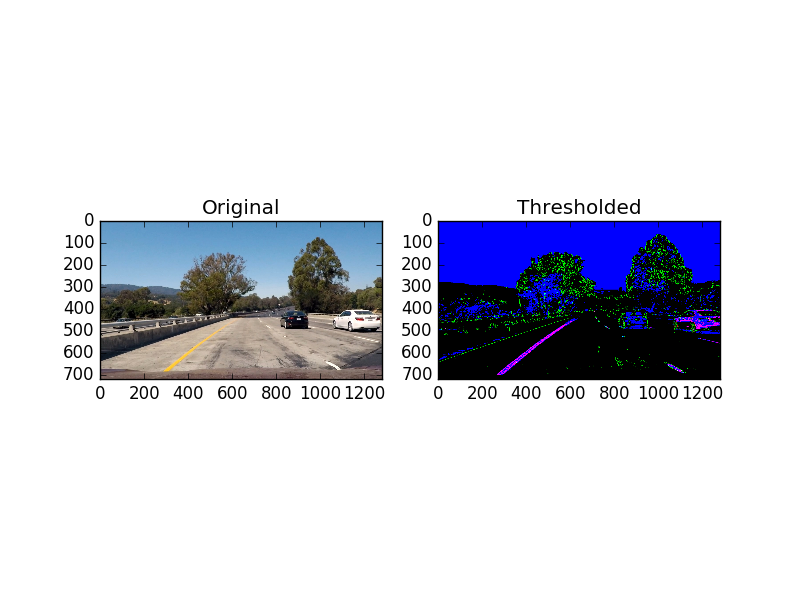
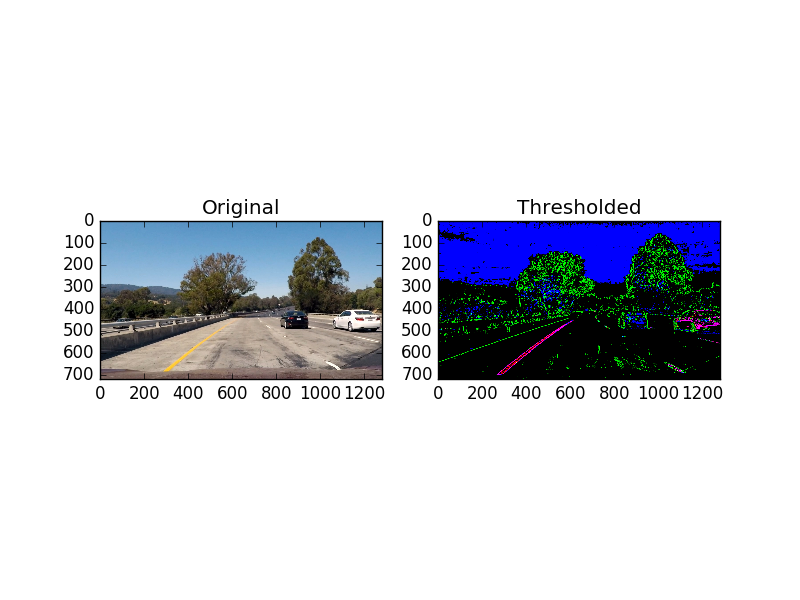
ready for writeup

diff --git a/advanced_lane_finding.py b/advanced_lane_finding.py
@@ -11,30 +11,87 @@ from moviepy.editor import VideoFileClip
 import time
 
 class Line():
+    # 0th index will correspond to the left line
+    # 1st index will correspond to the right line
     def __init__(self):
+        ym_per_pix = 30/720 # meters per pixel in y dimension
+        xm_per_pix = 3.7/700 # meters per pixel in x dimension
         # was the line detected in the last iteration?
         self.detected = False  
         # x values of the last n fits of the line
         self.recent_xfitted = [] 
         #average x values of the fitted line over the last n iterations
-        self.bestx = None     
+        self.bestx = []     
         #polynomial coefficients averaged over the last n iterations
-        self.best_fit = None  
+        self.best_fit = np.array([[0,0,0],[0,0,0]], dtype='float')
         #polynomial coefficients for the most recent fit
         self.current_fit = [np.array([False])]  
         #radius of curvature of the line in some units
-        self.radius_of_curvature = None 
+        self.radii = [] 
         #distance in meters of vehicle center from the line
         self.line_base_pos = None 
         #difference in fit coefficients between last and new fits
-        self.diffs = np.array([0,0,0], dtype='float') 
+        self.diffs = np.array([[0,0,0],[0,0,0]], dtype='float') 
         #x values for detected line pixels
         self.allx = None  
         #y values for detected line pixels
         self.ally = None
         #x location of the first window center form the previous run
         self.center = []
+        # conversion of pixels to length
+        self.pixels_to_length = []
 
+    def reset(self):
+        # comments in __init__()
+        self.detected = False  
+        self.recent_xfitted = [] 
+        self.bestx = []    
+        self.best_fit = np.array([[0,0,0],[0,0,0]], dtype='float')
+        self.current_fit = [np.array([False])]  
+        self.radii = [] 
+        self.line_base_pos = None 
+        self.diffs = np.array([[0,0,0],[0,0,0]], dtype='float') 
+        self.allx = None  
+        self.ally = None
+        self.center = []
+        self.pixels_to_length = []
+
+    def width_pixels(self):
+        #lane width in pixels
+        return (self.center[1] - self.center[0])
+
+    def position(self, cols):
+        # negative values indicate bias to right line
+        # positive values indicate bias to left line
+        pos_pixel = (self.center[1]-cols/2)-(cols/2-self.center[0])
+        pos_meter = pos_pixel * 3.7 / self.width_pixels()
+        return pos_meter
+
+    def draw_lines(self, rows):
+        # draw lines using polyfit and EWMA on previous fits
+        ploty = np.linspace(0, rows-1, num=rows)
+        if self.bestx == []:
+            self.bestx = np.zeros((2,rows), dtype = np.float32)
+            self.bestx[0] = self.best_fit[0,0]*ploty**2 + self.best_fit[0,1]*ploty + self.best_fit[0,2]
+            self.bestx[1] = self.best_fit[1,0]*ploty**2 + self.best_fit[1,1]*ploty + self.best_fit[1,2]
+        else:
+            tmp = np.zeros((2,rows), dtype = np.float32)
+            tmp[0] = self.best_fit[0,0]*ploty**2 + self.best_fit[0,1]*ploty + self.best_fit[0,2]
+            tmp[1] = self.best_fit[1,0]*ploty**2 + self.best_fit[1,1]*ploty + self.best_fit[1,2]
+            self.bestx[0] = 0.2*tmp[0] + 0.8*self.bestx[0]
+            self.bestx[1] = 0.2*tmp[1] + 0.8*self.bestx[1]
+
+        self.radii = np.zeros((2,), dtype = np.float32)
+
+        ym_per_pix = 30/720
+        xm_per_pix = 3.7/700
+        y_eval = np.max(ploty)
+        left_fit_cr = np.polyfit(ploty*ym_per_pix, self.bestx[0]*xm_per_pix, 2)
+        right_fit_cr = np.polyfit(ploty*ym_per_pix, self.bestx[1]*xm_per_pix, 2)
+        # Calculate the new radii of curvature
+        self.radii[0] = ((1 + (2*left_fit_cr[0]*y_eval*ym_per_pix + left_fit_cr[1])**2)**1.5) / np.absolute(2*left_fit_cr[0])
+        self.radii[1] = ((1 + (2*right_fit_cr[0]*y_eval*ym_per_pix + right_fit_cr[1])**2)**1.5) / np.absolute(2*right_fit_cr[0])
+            
 def cal_images():
     # Images for camera calibration
     fname_array = ['camera_cal/calibration1.jpg',
@@ -175,18 +232,17 @@ def calibrate_camera(fname_array):
 
     return mtx, dist
 
-def paint_lane(src, left_polynomial, right_polynomial):
+def paint_lane(src):
     # Given an image and a polynomial best fit for each edge
     # superimpose the lane over the image
-
+    rows = src.shape[0]
     dst = np.zeros_like(src).astype(np.uint8)
-    ploty = np.linspace(0, 719, num=720)
-    left_fit = left_polynomial[0]*ploty**2 + left_polynomial[1]*ploty + left_polynomial[2]
-    right_fit = right_polynomial[0]*ploty**2 + right_polynomial[1]*ploty + right_polynomial[2]
+    LaneLines.draw_lines(rows)
+    ploty = np.linspace(0, rows-1, num=rows)
 
     # Recast the x and y points into usable format for cv2.fillPoly()
-    pts_left = np.array([np.transpose(np.vstack([left_fit, ploty]))])
-    pts_right = np.array([np.flipud(np.transpose(np.vstack([right_fit, ploty])))])
+    pts_left = np.array([np.transpose(np.vstack([LaneLines.bestx[0], ploty]))])
+    pts_right = np.array([np.flipud(np.transpose(np.vstack([LaneLines.bestx[1], ploty])))])
     pts = np.hstack((pts_left, pts_right))
 
     # Draw the lane onto the warped blank image
@@ -294,6 +350,7 @@ def find_lines(src):
     # lines in each slice
 
     src = cv2.cvtColor(src, cv2.COLOR_RGB2GRAY)
+    
 
     rows, cols = src.shape[0], src.shape[1]
 
@@ -311,22 +368,17 @@ def find_lines(src):
 
     left_indices_all = []
     right_indices_all = []
-    if LeftLine.center == []:
+    if LaneLines.center == []:
         left_center = np.argmax(hist[:slice_width]) # horizontal center of the left search rectangle
-    else:
-        window_left = LeftLine.center-np.uint32(find_lines.width/2)
-        window_right = LeftLine.center+np.uint32(find_lines.width/2)
-        left_center = window_left+np.argmax(hist[window_left:window_right])
-    LeftLine.center = np.uint32(left_center)
-
-    if RightLine.center == []:
         right_center = slice_width+np.argmax(hist[slice_width:]) # horizontal center of the right search rectangle
     else:
-        window_left = RightLine.center-np.uint32(find_lines.width/2)
-        window_right = RightLine.center+np.uint32(find_lines.width/2)
+        window_left = LaneLines.center[0]-np.uint32(find_lines.width/2)
+        window_right = LaneLines.center[0]+np.uint32(find_lines.width/2)
+        left_center = window_left+np.argmax(hist[window_left:window_right])
+        window_left = LaneLines.center[1]-np.uint32(find_lines.width/2)
+        window_right = LaneLines.center[1]+np.uint32(find_lines.width/2)
         right_center = window_left+np.argmax(hist[window_left:window_right])
-    RightLine.center = np.uint32(right_center)
-    
+    LaneLines.center = [np.uint32(left_center), np.uint32(right_center)]
     
     dst = np.dstack((src, src, src))*255
 
@@ -375,13 +427,13 @@ def find_lines(src):
     left_indices_all = np.concatenate(left_indices_all)
     right_indices_all = np.concatenate(right_indices_all)
 
-    left_poly = np.polyfit(nonzero_row[left_indices_all],nonzero_col[left_indices_all],2)
-    right_poly = np.polyfit(nonzero_row[right_indices_all],nonzero_col[right_indices_all],2)
+    LaneLines.best_fit[0] = np.polyfit(nonzero_row[left_indices_all],nonzero_col[left_indices_all],2)
+    LaneLines.best_fit[1] = np.polyfit(nonzero_row[right_indices_all],nonzero_col[right_indices_all],2)
 
     dst[nonzero_row[left_indices_all], nonzero_col[left_indices_all]] = [255, 0, 0]
     dst[nonzero_row[right_indices_all], nonzero_col[right_indices_all]] = [0, 0, 255]
 
-    return dst, left_poly, right_poly
+    return dst
 
 def composite_image(img1, img2, img3, img4):
     # show 4 images on the same plot for tuning analysis
@@ -391,6 +443,24 @@ def composite_image(img1, img2, img3, img4):
     dst[360:721,0:640] = cv2.resize(img3, (640,360))
     dst[360:721,640:1281] = cv2.resize(img4, (640,360))
 
+    return dst
+
+def annotate(img):
+    # annotate image with line information
+    rows, cols = img.shape[0], img.shape[1]
+    pos = LaneLines.position(cols)
+    lrad = LaneLines.radii[0] #left lane radius
+    rrad = LaneLines.radii[1] #right lane radius
+    font = cv2.FONT_HERSHEY_SIMPLEX
+    dst = img
+    if pos > 0:
+        cv2.putText(dst,'Position = {:1.2}m left'.format(pos), (np.int(cols/2)-100,50), font, 1,(255,255,255),2)
+    else:
+        cv2.putText(dst,'Position = {:1.2}m right'.format(-pos), (np.int(cols/2)-100,50), font, 1,(255,255,255),2)
+
+    cv2.putText(dst,'Left curve radius = {:.0f}m'.format(lrad), (np.int(cols/2)-100,100), font, 1,(255,255,255),2)
+    cv2.putText(dst,'Right curve radius = {:.0f}m'.format(rrad), (np.int(cols/2)-100,150), font, 1,(255,255,255),2)
+    
     return dst
 
 def find_lanes(image):
@@ -407,16 +477,17 @@ def find_lanes(image):
     image = warp(stack)
 
     # Find the lane lines (Note: need to implement previous result improvement and filtering!)
-    lanes, left_polynomial, right_polynomial = find_lines(image)
+    lanes = find_lines(image)
 
     # Paint the lane lines onto the blank bird's eye image
-    shadow = paint_lane(lanes, left_polynomial, right_polynomial)
+    shadow = paint_lane(lanes)
 
     # Warp the bird's eye lane to original image perspective using inverse perspective matrix (Minv)
     unwarped = unwarp(shadow)
 
     # Overlay the lane estimate onto the original image
     dst = cv2.addWeighted(undist, 1, unwarped, 0.3, 0)
+    annotated = annotate(dst)
 
     if find_lanes.composite is True:
         # combine images
@@ -436,8 +507,7 @@ find_lanes.mtx = mtx
 find_lanes.dist = dist
 
 ## Create global variables
-LeftLine = Line()
-RightLine = Line()
+LaneLines = Line()
 
 ## Load parameters ##
 polygon1, polygon2 = warp_and_unwarp_params()
@@ -447,9 +517,9 @@ unwarp.Minv = cv2.getPerspectiveTransform(polygon2, polygon1)
 # lane finder params: number of slices, width of search region, number of pixels
 find_lines.num, find_lines.width, find_lines.min = 8, 160, 50
 # Sobel and HLS thresholds
-SobelX.thresh, HlsGrad.s_thresh = [30, 80], [90, 255]
+SobelX.thresh, HlsGrad.s_thresh = [20, 100], [120, 225]
 # Yellow and white thresholds
-ColorFilt.yellow, ColorFilt.white = [[215, 255], [160, 255], [0, 160]],[[225, 255], [225, 255], [225, 255]]
+ColorFilt.yellow, ColorFilt.white = [[215, 255], [140, 255], [0, 160]],[[225, 255], [225, 255], [225, 255]]
 
 ## Show camera calibration test images
 for fidx in range(len(fname_array)):
@@ -487,6 +557,7 @@ for fidx in range(len(fname_array)):
 for fidx in range(len(fname_array)):
     print('Saving thresholded road samples')
     # Load image
+    LaneLines.reset()
     src = mpimg.imread(fname_array[fidx], format = 'jpg')
 
     # Two images (original, and undistorted)
@@ -499,8 +570,47 @@ for fidx in range(len(fname_array)):
     filestr = 'output_images/thresholded_road'+str(fidx)+'.png'
     plt.savefig(filestr, format='png')
 
+## Show warped test images
+for fidx in range(len(fname_array)):
+    print('Saving warped road samples')
+    # Load image
+    LaneLines.reset()
+    src = mpimg.imread(fname_array[fidx], format = 'jpg')
+
+    # Two images (original, and undistorted)
+    undist = cv2.undistort(src, mtx, dist)
+    stacked = threshold(undist)
+    warped = warp(stacked)
+
+    # Save images
+    plt.subplot(1,2,1),plt.imshow(src),plt.title('Original')
+    plt.subplot(1,2,2),plt.imshow(warped),plt.title('Warped')
+    filestr = 'output_images/warped_road'+str(fidx)+'.png'
+    plt.savefig(filestr, format='png')
+
+## Show found lines on warped images
+for fidx in range(len(fname_array)):
+    print('Saving found line samples')
+    # Load image
+    LaneLines.reset()
+    src = mpimg.imread(fname_array[fidx], format = 'jpg')
+
+    # Two images (original, and undistorted)
+    undist = cv2.undistort(src, mtx, dist)
+    stacked = threshold(undist)
+    warped = warp(stacked)
+    lines = find_lines(warped)
+
+    # Save images
+    plt.subplot(1,2,1),plt.imshow(src),plt.title('Original')
+    plt.subplot(1,2,2),plt.imshow(lines),plt.title('Found')
+    filestr = 'output_images/found_lines'+str(fidx)+'.png'
+    plt.savefig(filestr, format='png')
+
+find_lanes.composite = False
 for fidx in range(len(fname_array)):
     # Load image
+    LaneLines.reset()
     src = mpimg.imread(fname_array[fidx], format = 'jpg')
 
     # Two images (undistorted original, and undistorted painted)
@@ -514,18 +624,21 @@ for fidx in range(len(fname_array)):
     plt.savefig(filestr, format='png')
 
 ## Test videos
-'''find_lanes.composite = True
+find_lanes.composite = False
 print('Starting video 1')
+LaneLines.reset()
 video_output = 'project_video_out.mp4'
 clip1 = VideoFileClip("project_video.mp4")
 video_clip = clip1.fl_image(find_lanes)
 video_clip.write_videofile(video_output, audio=False)
-
+'''
+LaneLines.reset()
 video_output = 'challenge_video_out.mp4'
 clip1 = VideoFileClip("challenge_video.mp4")
 video_clip = clip1.fl_image(find_lanes)
 video_clip.write_videofile(video_output, audio=False)
 
+LaneLines.reset()
 video_output = 'harder_challenge_video_out.mp4'
 clip1 = VideoFileClip("harder_challenge_video.mp4")
 video_clip = clip1.fl_image(find_lanes)
